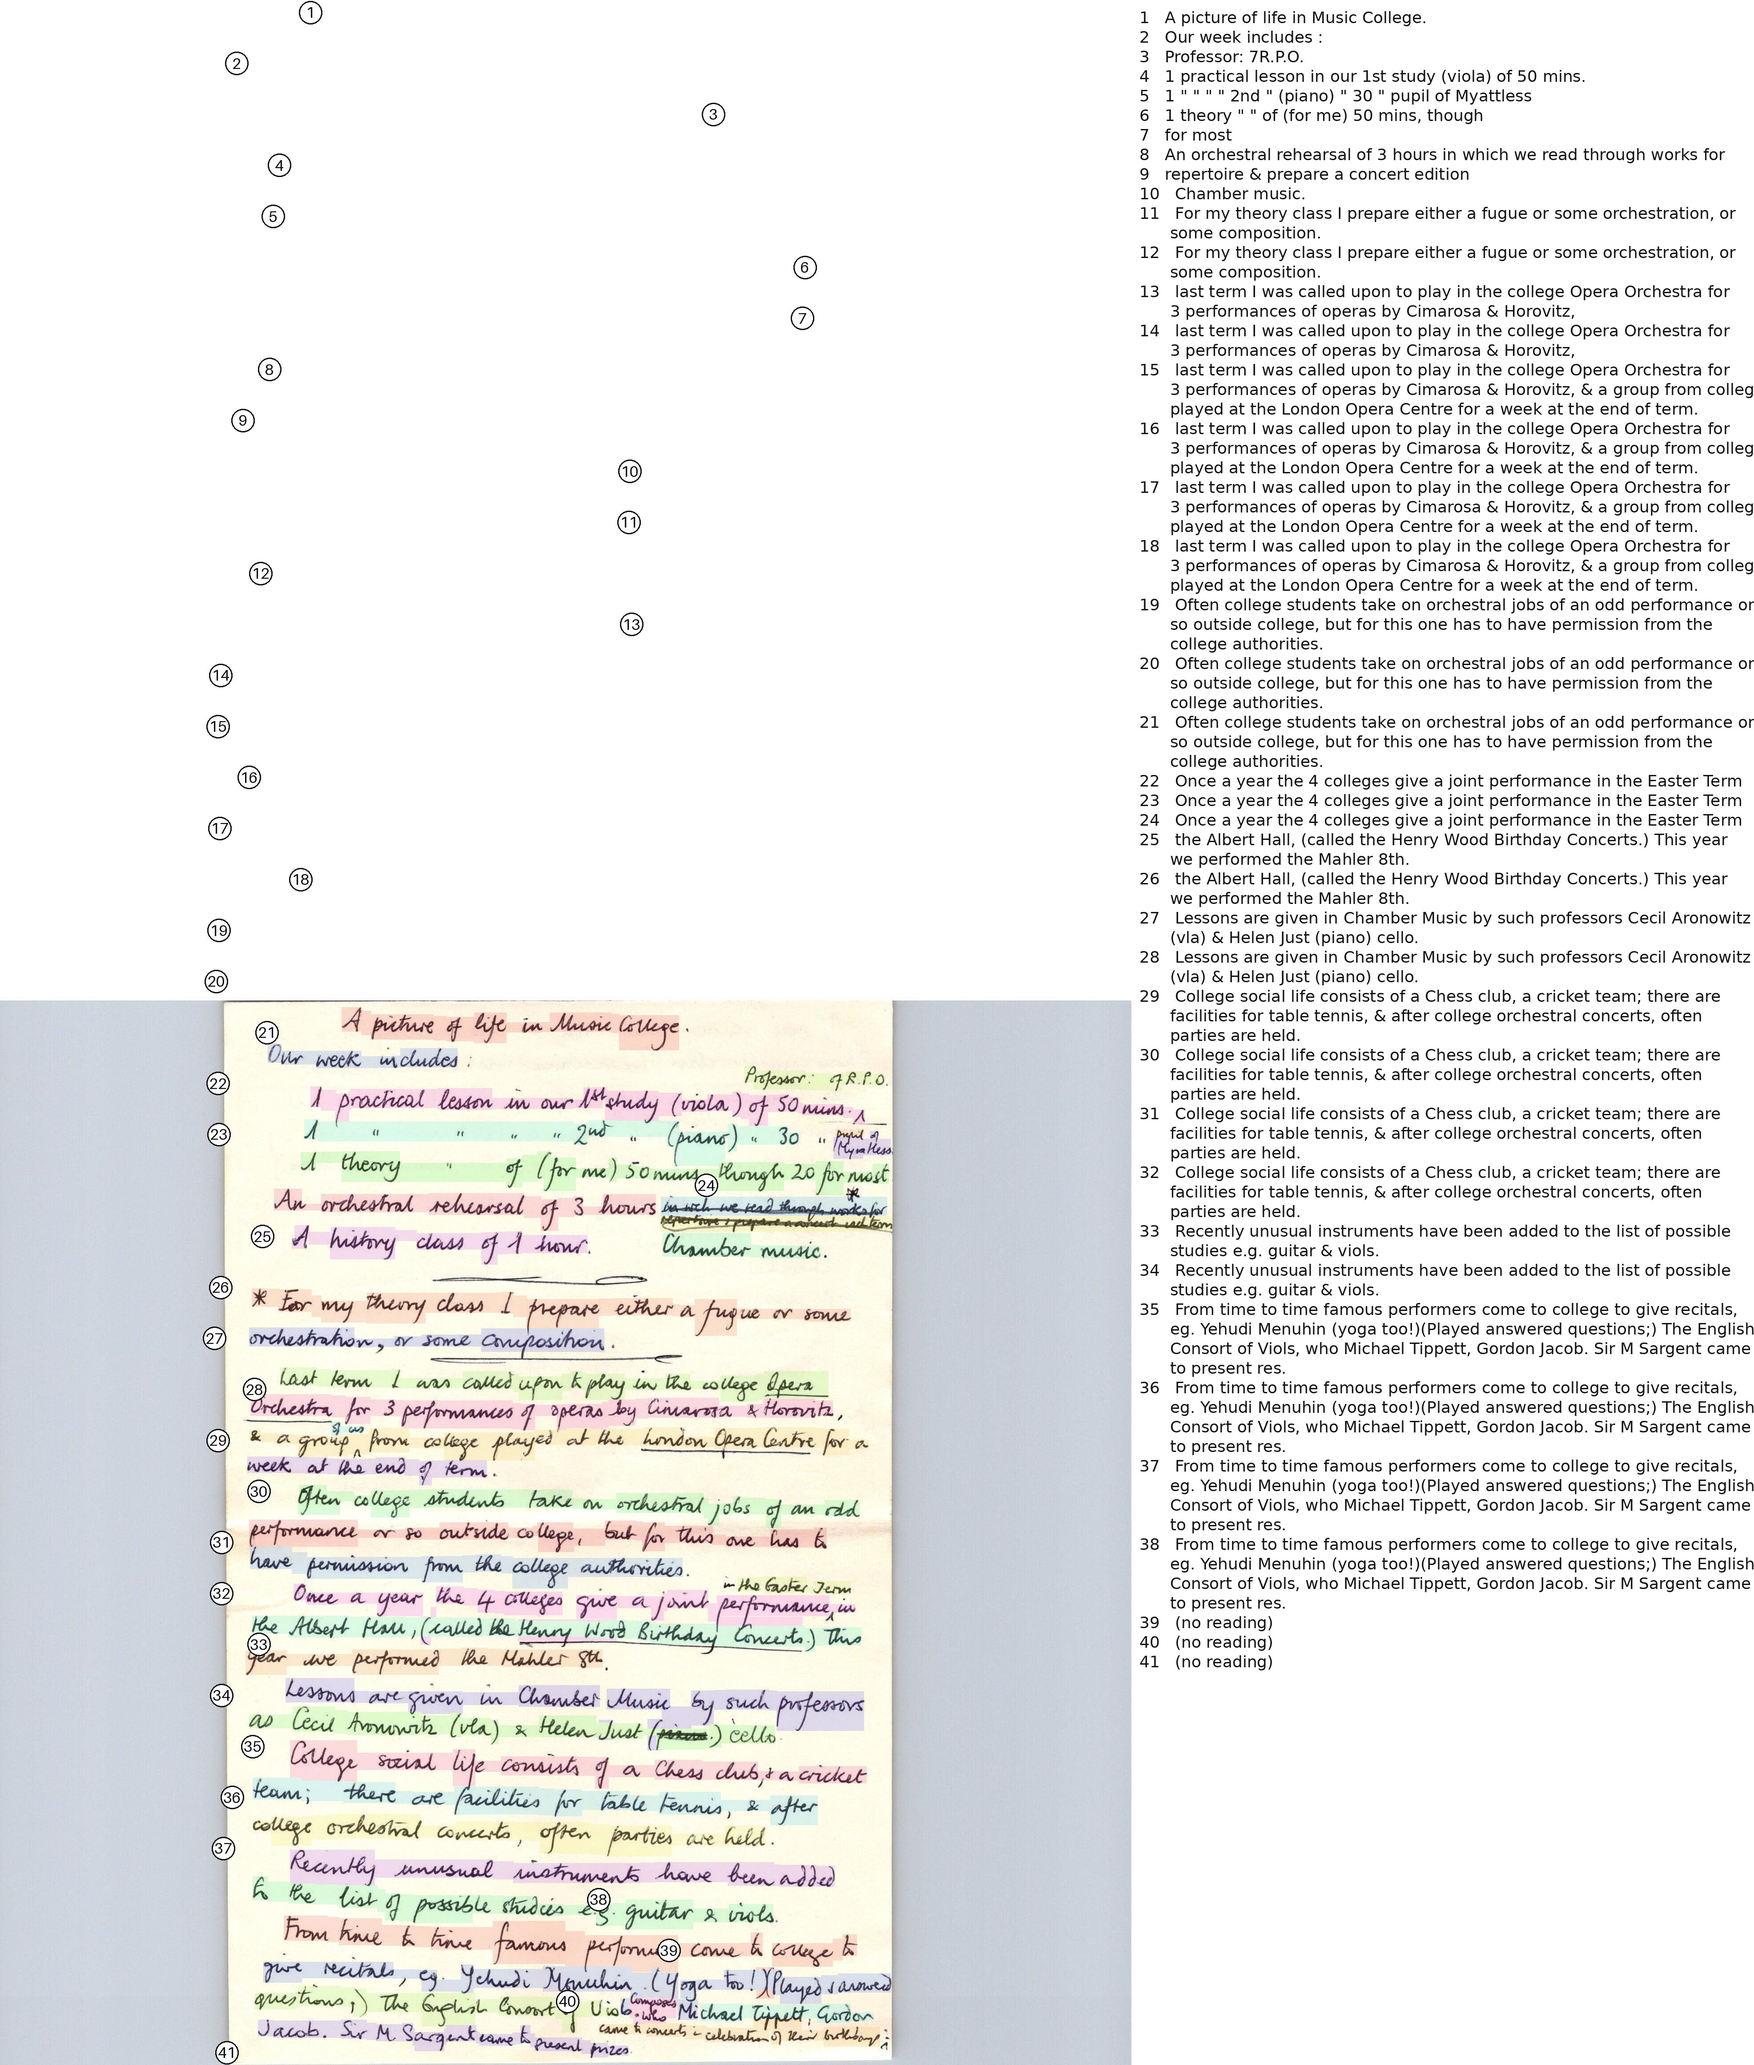
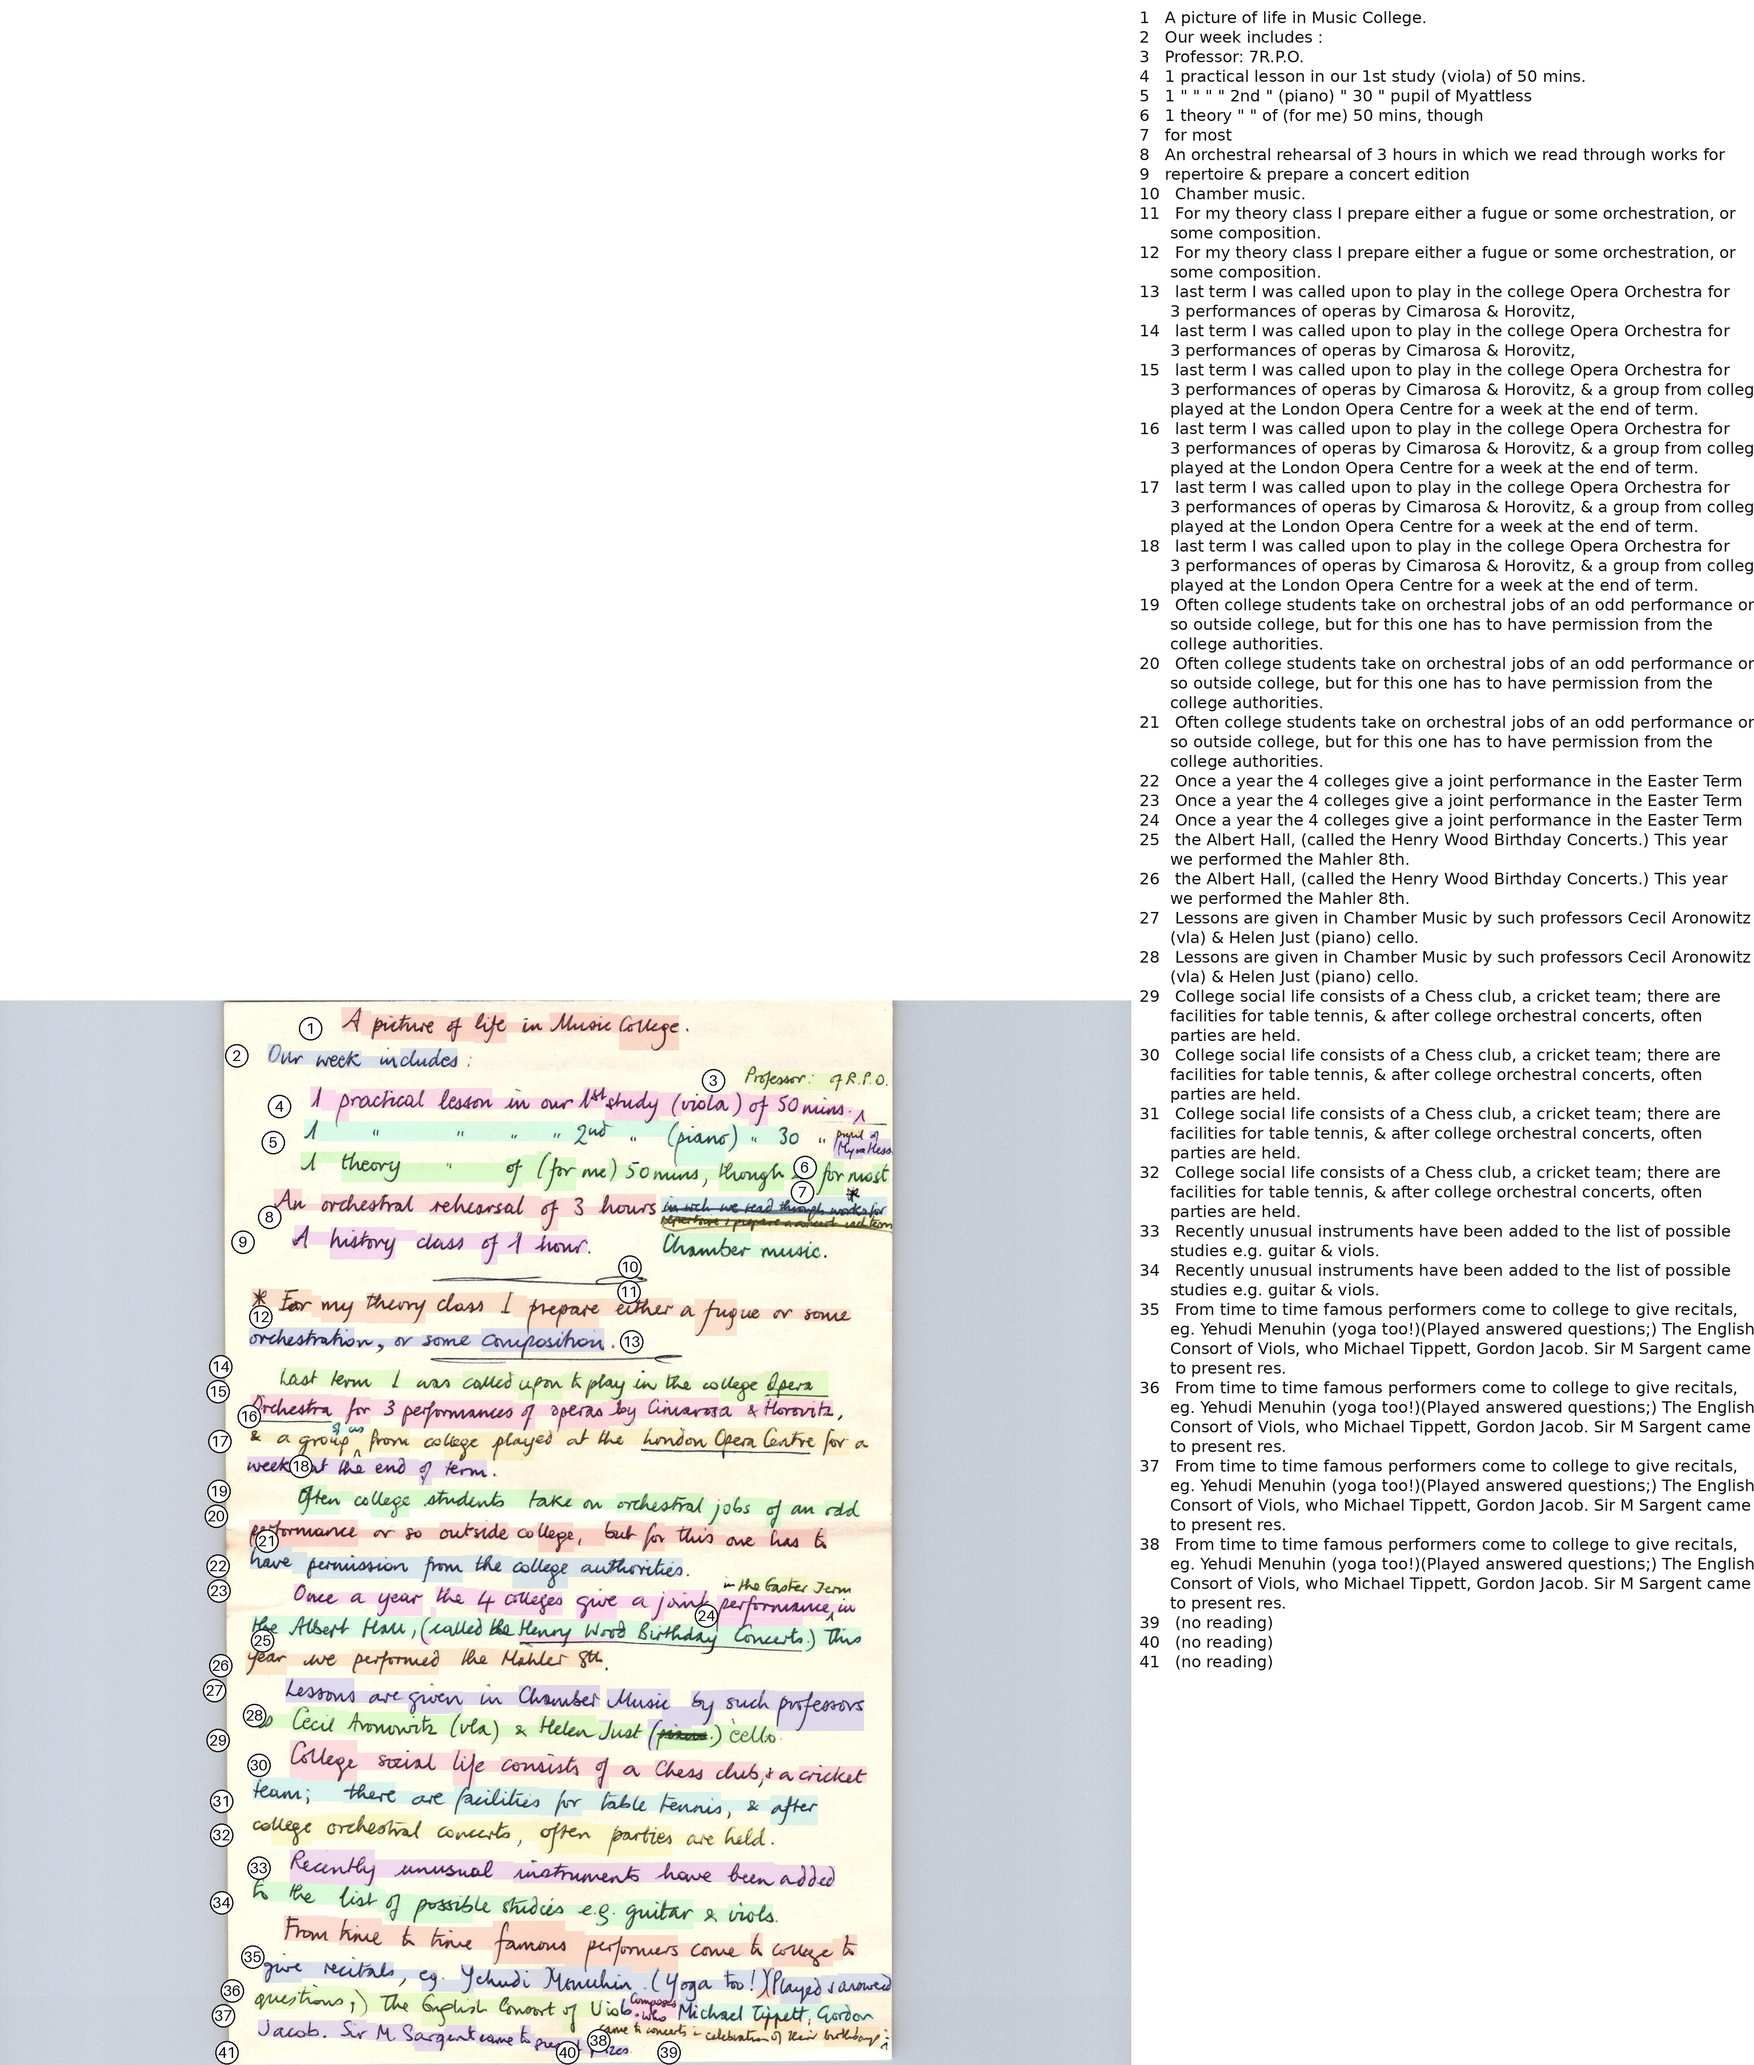
fix: a row number never leaves its row
The even-run fallback spread all 41 numbers evenly down the image whenever the
minimal drift overflowed the canvas — which throws away the one thing a number
is for. There is no redistribution now: each number sits at its own row's
centre, clamped into the image, moved only as far as the number above forces
it. Two discs touching is readable; a disc parked beside someone else's row is
not.

Measured on page-01 (not looked at — this session cannot see images): the
worst displacement of a number from its row's centre is a few pixels, against
a row height of ~60px.

diff --git a/document/numbered_rows.py b/document/numbered_rows.py
@@ -130,29 +130,25 @@ class NumberedRows:
 
 
 def _spread(desired: list[float], height: int) -> list[float]:
-    """Where the numbers actually sit: their rows' centres when those are far
-    enough apart, and an even run across the image when they are not.
+    """Where the numbers sit: each at its own row's centre, clamped into the
+    image, moved only as far as the number above it forces.
 
-    Pushing each colliding number further down accumulates: on page-01 the last
-    rows' numbers ended up below the band's own crop, so the model never saw
-    39-41 at all. An even run keeps every number inside the image, in reading
-    order, and each within reach of its own row — two numbers may sit closer to
-    each other than the discs' width would prefer, but none is ever hidden."""
+    A number that drifts away from its row is worse than two numbers that
+    touch: the reader can see which disc is whose from the line it sits beside,
+    but a disc parked next to some other row says something false. So there is
+    no redistribution — the drift is the minimum that avoids a full cover, and
+    the last rows are clamped into the image rather than pushed out of it."""
     if not desired:
         return []
     gap = 2 * CHIP_RADIUS + DISC_GAP
-    pushed: list[float] = []
-    for value in desired:
-        if pushed:
-            value = max(value, pushed[-1] + gap)
-        pushed.append(value)
     top, bottom = CHIP_RADIUS + 2, height - CHIP_RADIUS - 2
-    if pushed[-1] <= bottom and pushed[0] >= top:
-        return pushed
-    if len(desired) == 1:
-        return [min(max(desired[0], top), bottom)]
-    span = max(1.0, len(desired) - 1)
-    return [top + (bottom - top) * index / span for index in range(len(desired))]
+    out: list[float] = []
+    for value in desired:
+        y = min(max(value, top), bottom)
+        if out and y < out[-1] + gap:
+            y = min(out[-1] + gap, bottom)
+        out.append(y)
+    return out
 
 
 def _cut_gaps(rows: list[Row], *, strips: int, top: float, bottom: float) -> list[float]:
